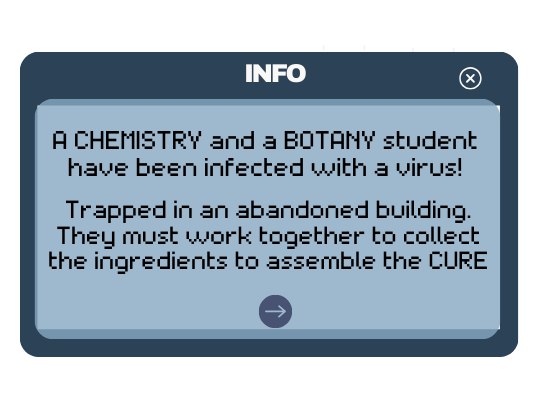
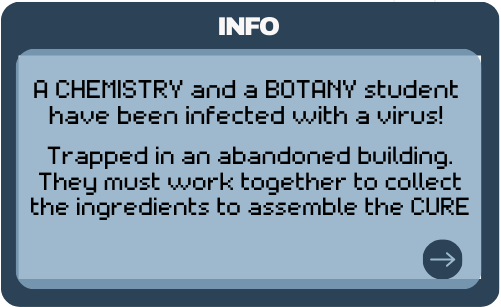
infopopups

diff --git a/game/sketch.js b/game/sketch.js
@@ -5,12 +5,19 @@ let timeManager;
 
 let homeImage, gameDifficultyImage, gameOverImage, mazeFloorHardImage, missionCompleteImage;
 
+let infoSlides = [];
+let currentSlides = 0;
+let showInfo = false;
+
 function preload() {
   homeImage = loadImage("assets/homepage.png");
   gameDifficultyImage = loadImage("assets/gamedifficulty.png");
   gameOverImage = loadImage("assets/gameover.png");
   mazeFloorHardImage = loadImage("assets/mazefloorhard.png");
   missionCompleteImage = loadImage("assets/missioncomplete.png");
+  infoSlides[0] = loadImage("assets/infopage1.png");
+  infoSlides[1] = loadImage("assets/infopage2.png");
+  infoSlides[2] = loadImage("assets/infopage3.png");
 }
 
 function setup() {
@@ -35,15 +42,20 @@ function draw() {
   } else if (state === "playing") {
     image(mazeFloorHardImage, 0, 0, width, height);
 
-    timeManager.updateTime();
-
-    fill(0);
-    textSize(20);
-    text(`Time Left: ${timeManager.getFormattedTime()}`, 20, 30);
-    text(`Ingredients: ${gameController.collectedIngredients} / ${gameController.requiredIngredients}`, 20, 60);
-
-    gameManager.updateGameStatus();
-
+    if (showInfo) {
+      const popupW = 900;
+      const popupH = 600;
+      const popupX = (width - popupW) / 2;
+      const popupY = (height - popupH) / 2;
+      image(infoSlides[currentSlide], popupX, popupY, popupW, popupH);
+    } else {
+        timeManager.updateTime();
+        fill(0);
+        textSize(20);
+        text(`Time Left: ${timeManager.getFormattedTime()}`, 20, 30);
+        text(`Ingredients: ${gameController.collectedIngredients} / ${gameController.requiredIngredients}`, 20, 60);
+        gameManager.updateGameStatus();
+      }
   } else if (state === "won") {
     image(missionCompleteImage, 0, 0, width, height);
 
@@ -58,6 +70,32 @@ function mousePressed() {
 
   const state = gameManager.getState();
 
+  // if playing state and info pages are showing, go to next info page if 'next' button is clicked, go exit info pages if 'exit' button is clicked
+  if (state === "playing" && showInfo) {
+    console.log("Checking info popup clicks...");
+  
+    // NEXT button 
+    if (
+      currentSlide < 2 &&
+      mouseX > 1024 && mouseX < 1074 &&
+      mouseY > 576 && mouseY < 626
+    ) {
+      currentSlide++;
+      return;
+    }
+  
+    // EXIT button
+    if (
+      currentSlide === 2 &&
+      mouseX > 1060 && mouseX < 1110 &&
+      mouseY > 130 && mouseY < 160
+    ) {
+      showInfo = false;
+      return;
+    }
+  }
+
+
   if (state === "home") {
     if (mouseX > 635 && mouseX < 732 && mouseY > 276 && mouseY < 348) {
       gameManager.goToDifficultyScreen();
@@ -70,6 +108,14 @@ function mousePressed() {
 
   } else if (state === "won" || state === "gameOver") {
     gameManager.resetGame();
+  }
+
+  // if playing state and not showing info pop up, if mouse is on '?' button show info pages
+  if (state === "playing" && !showInfo) {
+    if (mouseX > width - 60 && mouseX < width - 20 && mouseY > 20 && mouseY < 60) {
+      showInfo = true;
+      currentSlide = 0;
+    }
   }
 }
 
